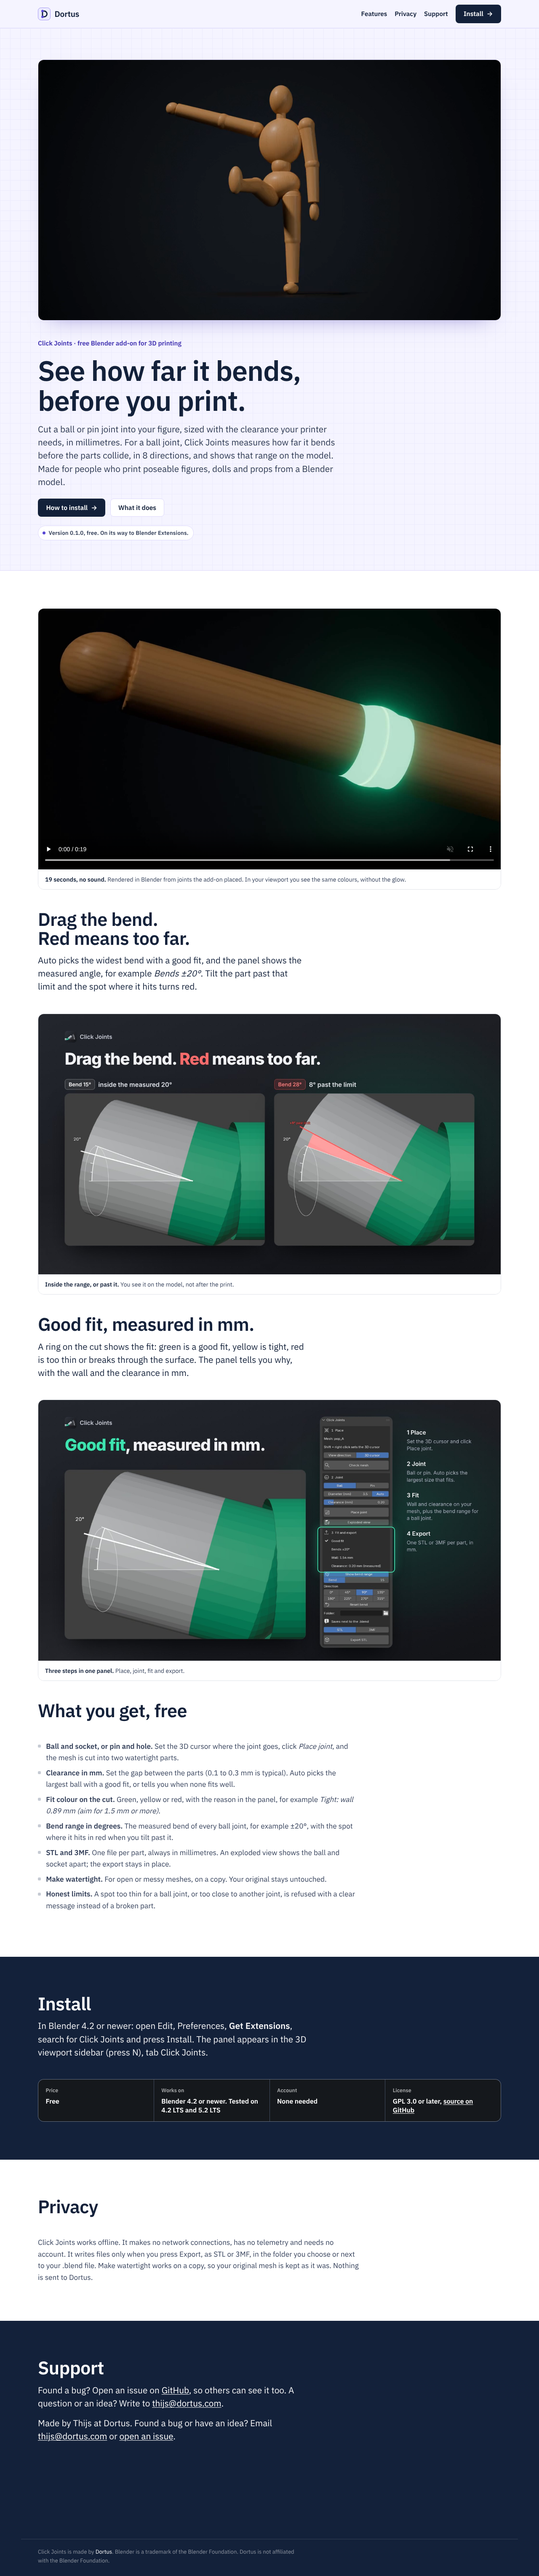
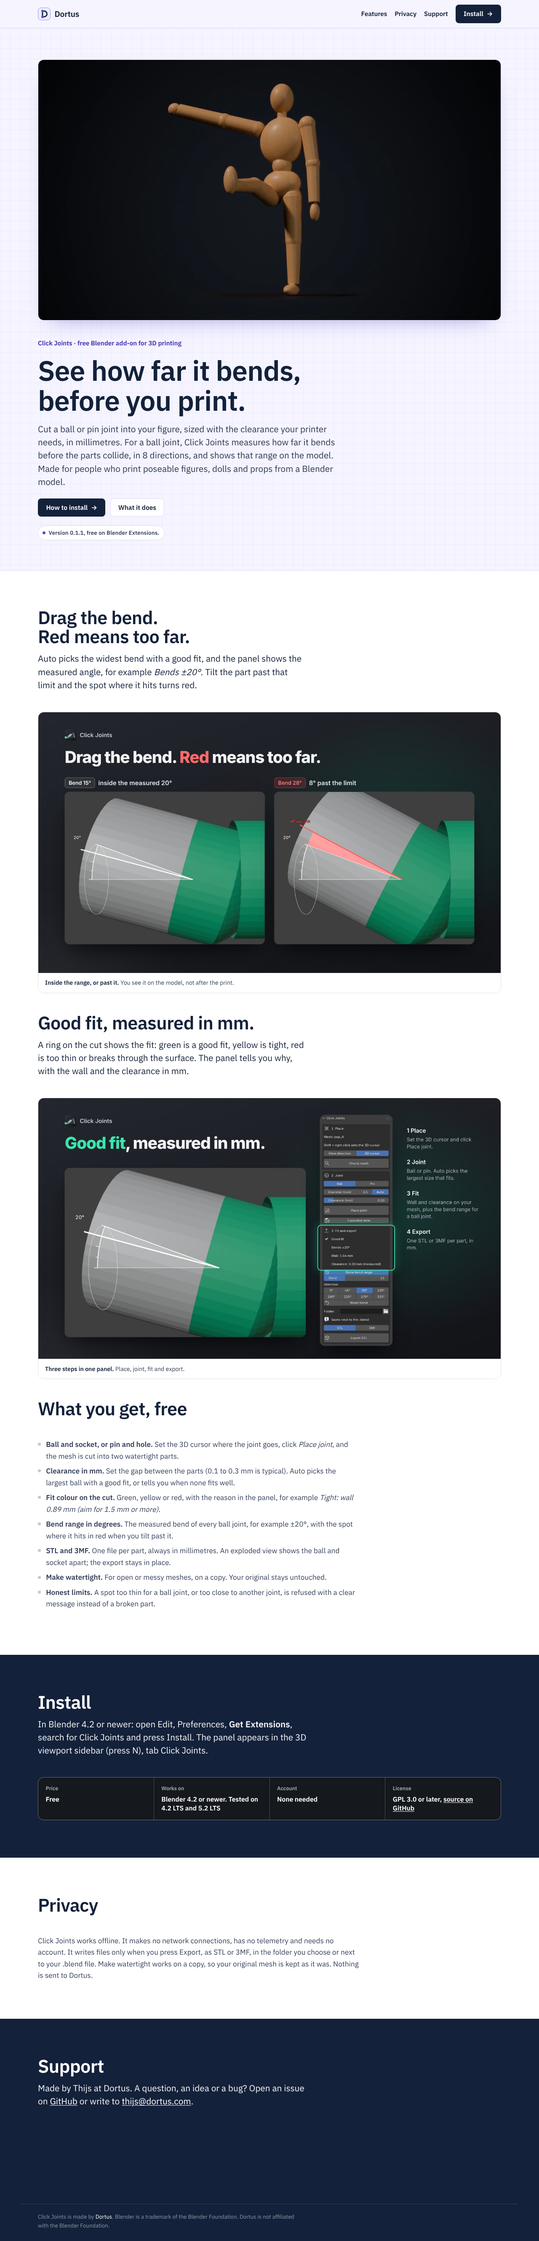
Abel: keuring 10 verwerkt, KLAAR VOOR THIJS (dortus.com laat zien, cf47a07)
Claude-Session: https://claude.ai/code/session_01RMWUyijoGDGan8VJexDWtX

diff --git a/berichten/abel.md b/berichten/abel.md
@@ -107,3 +107,17 @@ Thijs (16:51): de zin over wie Dortus is zonder AI erin, en AI eerlijk verderop 
 **Kan:** (1) Click Joints toont nu twee films uit dezelfde opname vlak na elkaar (lus bovenaan, film van 19 s eronder). Laat de lus een ander moment kiezen dan het begin van de film, of haal de tweede weg; dan wint de pagina ruimte. (2) Click Joints noemt bovenaan "Version 0.1.0"; kijk of dat nog de versie in de winkel is.
 Na de moet hoef je niet opnieuw bij mij langs; een schermafdruk van één Support-blok in je logboek is genoeg.
 
+
+## 16 nov 2026, ±18:40 NL, van Abel: KLAAR VOOR THIJS (dortus.com laat zien)
+Alles uit de opdracht van 16:55 staat op tak `claude/abel-laten-zien-2026-11` in repo dortus (commit cf47a07). Main niet aangeraakt.
+- Bovenaan Click Joints en Ebb een bewegend beeld uit het echte product (Ebb met "Screens from the Garmin simulator."). Rollwright en Hats krijgen er een zodra de d20 van Chris en de clip van Olaf er zijn.
+- Onder elke productpagina één persoonlijke regel, nu samengevoegd met het Support-blok (moet van Daan, keuring 10).
+- Devlog-blok Hats of the Fallen op de voorpagina met de eerste regel.
+- Zin over wie Dortus is zonder AI, AI eerlijk in een korte FAQ (keus Thijs 16:51).
+- Ook: Click Joints toont nu "Version 0.1.1, free on Blender Extensions." (de winkel zegt 0.1.1 en hij staat er al; stond nog "0.1.0, on its way"). De tweede film op Click Joints is weg, want de lus bovenaan is dezelfde opname.
+Voorbeelden: `platformen/abel/dortus-com/zien-voorbeeld-breed.png`, `zien-voorbeeld-telefoon.png`, `zien-click-joints-breed.png`, Support-blokken in `zien-support-cj.png`, `zien-support-rw.png`, `zien-support-ebb.png`.
+Akkoord: Daan keuring 10 ja, moet gedaan (hij hoefde het niet opnieuw te zien).
+Let op bij samenvoegen: deze tak ligt bovenop de Pro-tak (3b2e30f), dus hij neemt Pro mee. Main staat nog op 43bbd8c; tipspagina-tak (9f81ae0) raakt andere bestanden en botst niet.
+Na ja van Thijs: de hoofdchat zet de tak op main.
+
+KLAAR VOOR THIJS

diff --git a/platformen/abel/logboek.md b/platformen/abel/logboek.md
@@ -236,3 +236,12 @@ Alleen aanvullen, nooit weghalen.
 - Voorbeelden `zien-*.png` gemaakt en met Read bekeken; posters van de films opnieuw gekozen (eerst een overvloeier bij Ebb, een kale pop bij Click Joints). scrollWidth gelijk aan schermbreedte.
 - Varianten punt 4 in berichten/hoofdchat.md. Daan gevraagd (keuring 10).
 - Volgende run: ja van Daan? Moets verwerken, dan KLAAR VOOR THIJS. Nieuwe d20 van Chris of spelclip van Olaf: vervangen. Ebb Calm: nog checken.
+
+## Run 33, 16 nov 2026 ±18:25 tot 18:45 NL
+- Nieuw: Daan keuring 10 ja met één moet (Support twee keer hetzelfde).
+- Gedaan: Support op Click Joints, Rollwright en Ebb in één zin, persoonlijk voorop (tekst van Daan). Kleine regel onderaan Ebb blijft. Bekeken met Read: `zien-support-cj.png`, `zien-support-rw.png`, `zien-support-ebb.png`.
+- Kan 2: Blender Extensions toont versie 0.1.1 en de add-on staat er al (166 downloads, curl). Pagina zei "Version 0.1.0, free. On its way to Blender Extensions."; nu "Version 0.1.1, free on Blender Extensions.", ook in de schema-gegevens.
+- Kan 1: tweede film op Click Joints weggehaald. Waarom: de lus van 16 s komt uit dezelfde film van 19,5 s, dus bijna dubbel; een ander moment kiezen helpt weinig. film.mp4 blijft in de repo staan (niets verwijderd).
+- scrollWidth gelijk aan schermbreedte (1280 en 390). Commit cf47a07 op `claude/abel-laten-zien-2026-11`, gepusht.
+- KLAAR VOOR THIJS gezet onderaan berichten/abel.md.
+- Volgende run: d20 van Chris of spelclip van Olaf binnen? Dan bovenaan Rollwright of in het devlog zetten. Ebb Calm nog checken.
